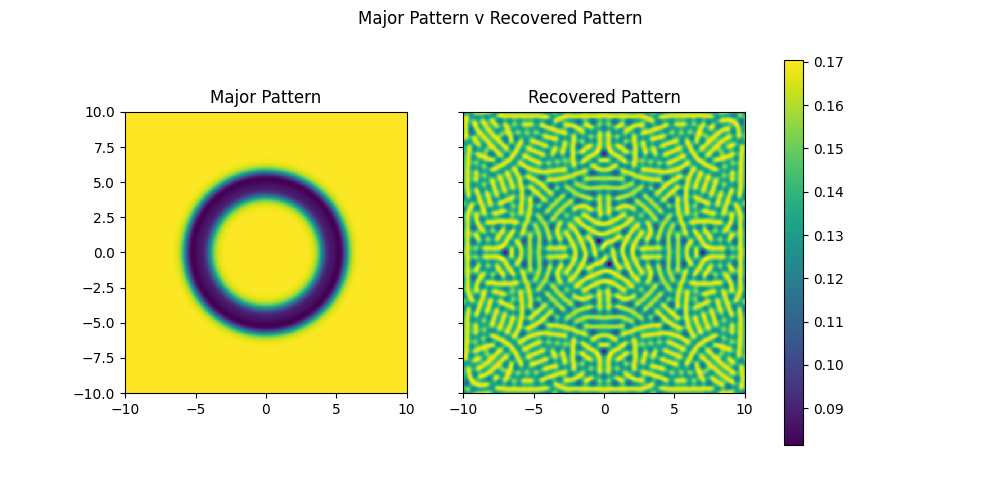
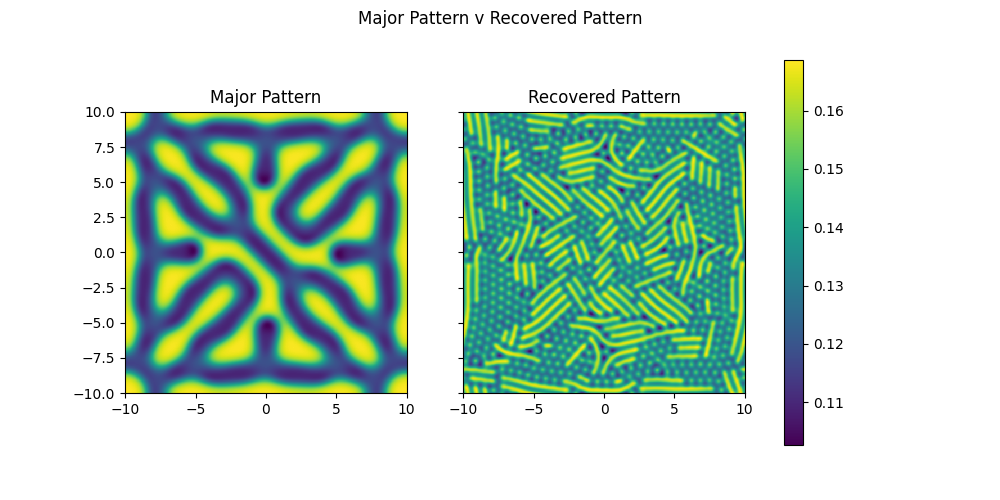
Made a very large simulation of both simultaneously, should possibly redo it with a bigger difference in phase and scale, and jump the dt of the large pattern up a little but so it runs faster (it took *all day*).

diff --git a/mapped-gs.py b/mapped-gs.py
@@ -97,12 +97,18 @@ Same as previous variedgs but both evolve at the same time.
 # 							 bottom_left=(-n,-n), top_right=(n,n))
 
 # Model.to_file(small_mapped_gs, 'data/mappedgs/parallel_phase_fast',
-# 			  frames=500, steps_per_frame=100)
+# 			  frames=5000, steps_per_frame=100)
 # Model.create_animation('mappedgs/parallel_phase_fast', 
 # 					   'data/mappedgs/parallel_phase_fast',
 # 					   'Inhibitor',
-# 					   frame_count=500,
+# 					   frame_count=5000,
 # 					   frame_skip=100)
+
+Model.create_animations('mappedgs/parallel_phase_both', 
+					   'data/mappedgs/parallel_phase_fast',
+					   ['Inhibitor', 'Mapped_Feed'],
+					   frame_count=5000,
+					   frame_skip=100)
 
 '''
 Generate last frame plot of the above model
@@ -115,7 +121,7 @@ original_pattern, x, y = Model.get_last("data/mappedgs/parallel_phase_fast")
 n = 15
 stencil = np.ones((n,n))/(n*n)
 recovered_pattern = original_pattern['Inhibitor']
-# recovered_pattern = ndimage.convolve(recovered_pattern, stencil, mode='wrap')
+recovered_pattern = ndimage.convolve(recovered_pattern, stencil, mode='wrap')
 recovered_pattern = ndimage.gaussian_filter(recovered_pattern, 5.5, mode='wrap')
 
 fig, ax = plt.subplots(nrows=1, ncols=2, figsize=(10, 5), sharey=True)
@@ -132,4 +138,4 @@ ax[1].set_box_aspect(1.0)
 
 cb = fig.colorbar(quad, ax=ax.ravel().tolist())
 plt.show()
-fig.savefig("plots/major_v_recovered_gauss.png")
+fig.savefig("plots/major_v_recovered_gauss+averaged.png")

diff --git a/simulator/models/model.py b/simulator/models/model.py
@@ -223,6 +223,43 @@ class Model:
 		print("Saved animation: " + name)
 		pass
 	
+	def create_animations(name: str, source: str, to_plot: list, plot_funcs=[], frame_count=1000, frame_skip=20, ):
+		print(f"Beginning animations of '{name}' from '{source}.dat'")
+		data = Model.from_file(source)
+		x = next(data)
+		y = next(data)
+		
+		number_params = len(to_plot)
+		if len(plot_funcs) != number_params:
+			plot_funcs = [lambda x:x for x in to_plot]
+		
+		fig, axs = plt.subplots(ncols=number_params)
+		fig.suptitle(f"{to_plot}: 0")
+
+		zips = zip(axs, plot_funcs, to_plot)
+		
+		# Skip a few because apparently it didn't store the first couple times
+		next(data)
+		next(data)
+		
+		quads = [ax.pcolormesh(x, y, f(next(data)[p])) for ax, f, p in zips]
+		cb = plt.colorbar(quads[0])
+		
+		[ax.set_box_aspect(1.0) for ax in axs]
+		[ax.set_title(p) for ax,f,p in zips]
+
+		def animate(i):
+			fig.suptitle(f"{to_plot}: {i*frame_skip}")
+			curr_frame = next(data)
+			[q.set_array(f(curr_frame[p])) for q,f,p in zip(quads, plot_funcs, to_plot)]
+			return tuple(quads)
+
+		anim = FuncAnimation(fig, animate, frames=frame_count)
+
+		anim.save('animations/'+name+'.gif', writer='pillow', fps=30)
+		print("Saved animation: " + name)
+		pass
+	
 	def get_last(source, do_cache=True):
 		"""
 		Gets the last frame stored in a serialised model.

diff --git a/simulator/models/mappedgs.py b/simulator/models/mappedgs.py
@@ -34,6 +34,8 @@ class MappedGS(GrayScott):
 		return
 	
 	def take_step(self, num=1):
+		for k in self.mapping:
+			self.other_store["Mapped_"+k] = self.mapping[k]()
 		for i in range(0, num):
 			self.update_func()
 			super().take_step()
